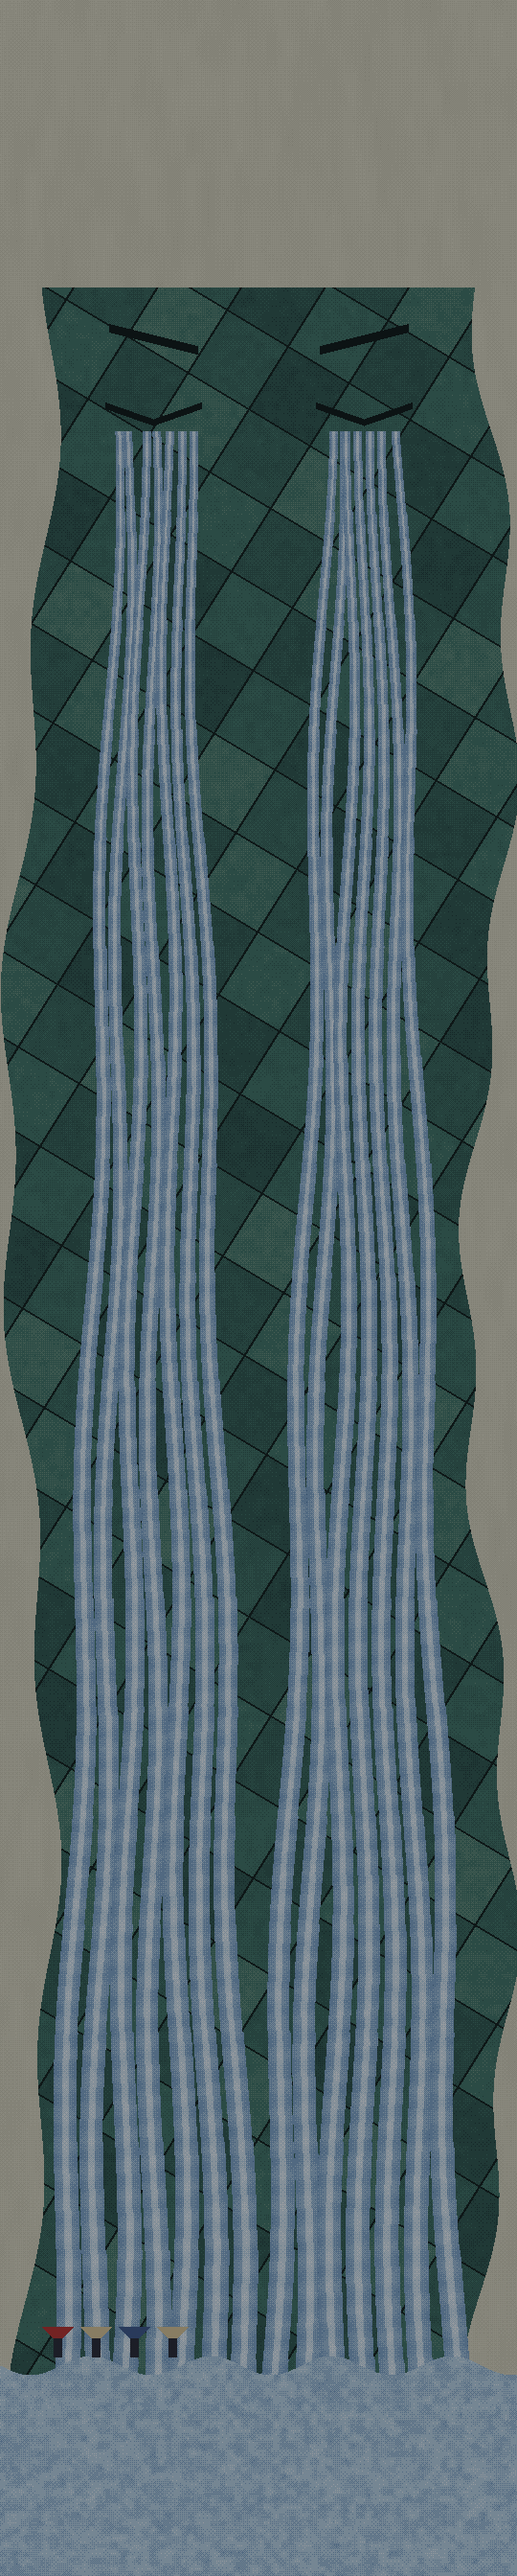
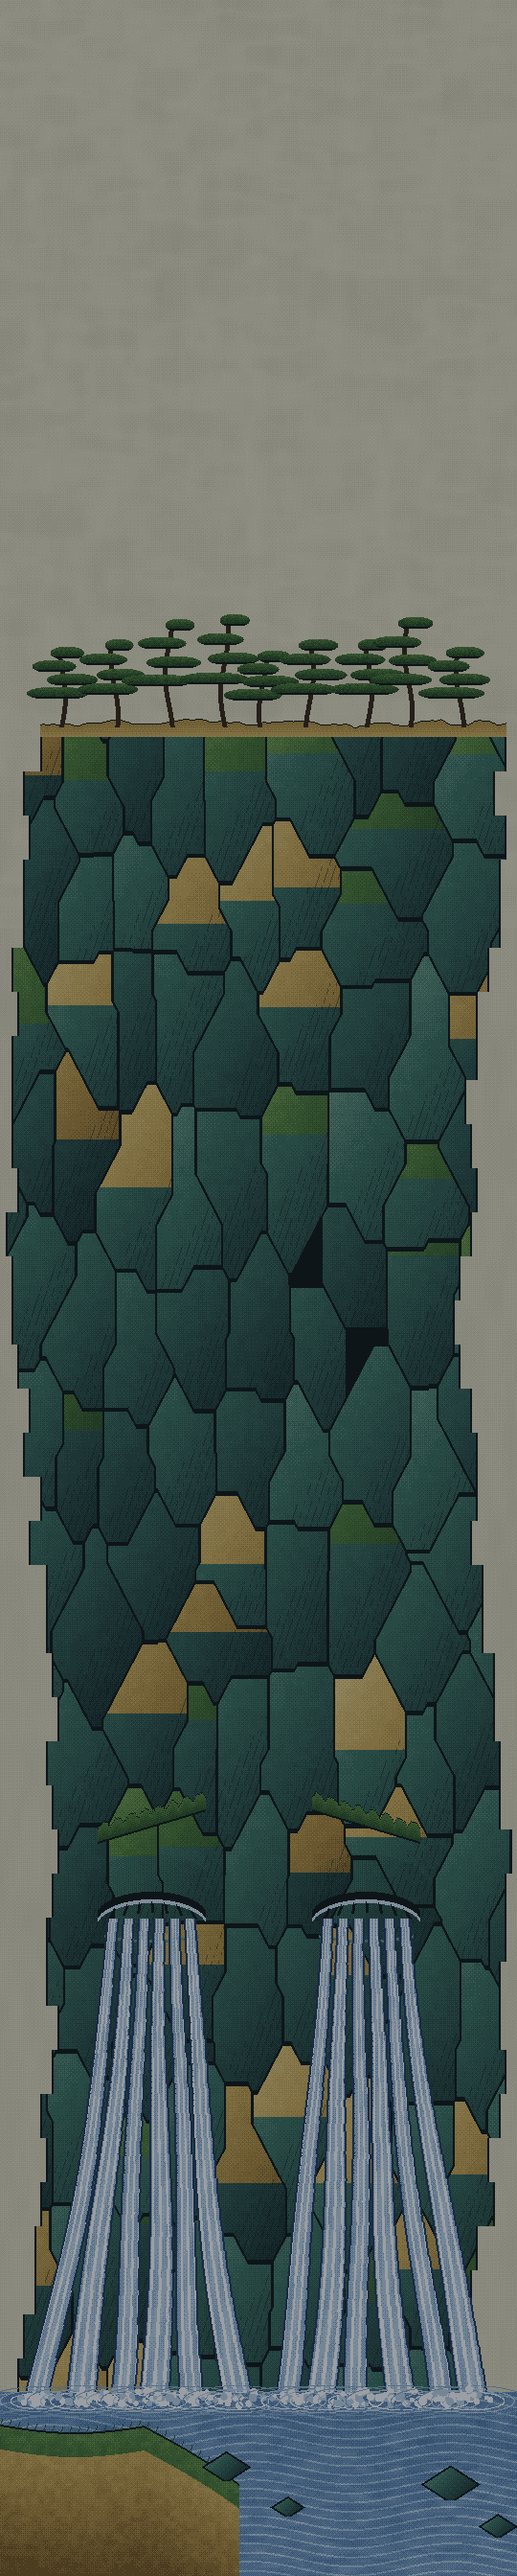
Press conference: the man wears glasses; the Kirifuri arena redrawn with moving water, mist and pilgrims

diff --git a/docs/random-encounters.md b/docs/random-encounters.md
@@ -198,14 +198,26 @@ Stałe: `OBACHAN` w `src/game/enemies/obachan.js` (2400 HP, progi 66% / 33%). Ba
 - **Faza 3 — tygrys!:** tygrys zeskakuje z bluzki (na bluzce zostaje dziura) i poluje sam: przyczaja się (linia
   celu), skacze, ląduje z rykiem (pierścień, „GAO!”), odpoczywa; babcia dalej rozdaje cukierki i się targuje.
 
-## 7. Płacząca mównica (MOWNICA)
+## 7. Konferencja prasowa (KAIKEN)
 
-Stałe: `MOWNICA` w `src/game/enemies/mownica.js` (2400 HP, progi 66% / 33%). Pierwsza wersja do przerobienia.
+Stałe: `KAIKEN` w `src/game/enemies/kaiken.js` (2400 HP, progi 66% / 33%). Grafika: `tools/art/encounters/kaiken.mjs`
+(postać), `kirifuri.mjs` (tło). Podgląd klatek z gry i pomiar pocisków: `node tools/preview/kaiken-shots.mjs`.
 
-- **Faza 1 — „HA? NANI?”:** wachlarze „odpowiedzi” w gracza; co drugi ruch przykłada rękę do ucha i przez 2,2 s
-  nic nie słyszy: strzały nie zadają obrażeń, a część wraca do gracza jako echo.
-- **Faza 2 — „UAAA!”:** szloch — łuki łez z obu oczu w rytmie łapania oddechu; walenie pięściami w stół („DON!”,
-  podwójny pierścień, wstrząs ekranu); wymachiwanie ręką (strumień pocisków omiatający ekran).
-- **Faza 3 — „ZMIENIĘ ŚWIAT!”:** rzuca bilety kolejowe (numerowane w górę, do #195), które spadają, kołysząc się;
-  co piąty ma czerwony stempel „pociąg nie jechał” i pęka pierścieniem („UNKYŪ!”). Po wygranej: „PAN TEGO NIE
-  ZROZUMIE”.
+Boss to wymyślony pan w garniturze i okularach za stołem konferencyjnym (bez nazwiska, podobizny i funkcji;
+nawiązanie tylko do zachowania). Jedna kukiełka w 22 pozach, pokazywana 1,35× większa niż narysowana; stół,
+mikrofony, szklanka, kałuża łez i zużyte chusteczki to osobne części.
+
+- **Faza 1 — „HA? NANI?”:** wachlarze „odpowiedzi” z ust; siorbnięcie nosem (po trzy łzy na boki); co czwarty ruch
+  przykłada rękę do ucha i przez 1,6 s nic nie słyszy: strzały zatrzymują się na łuku narysowanym przed stołem
+  i odskakują w bok, a część wraca jako echo.
+- **Faza 2 — „UAAA!”:** szloch (łuki łez z obu oczu); walenie pięściami w stół („DON!”, podwójny pierścień, wstrząs,
+  mikrofony i szklanka podskakują, kałuża chlapie); wymachiwanie ręką (strumień pocisków z dłoni).
+- **Faza 3 — „ZMIENIĘ ŚWIAT!”:** rzuca bilety kolejowe (numerowane, do #195), które spadają, obracając się; co piąty
+  ma czerwony stempel i pęka pierścieniem („UNKYŪ!”). Po wygranej osuwa się czołem na stół: „PAN TEGO NIE ZROZUMIE”.
+- **Co widać w trakcie:** kałuża łez rośnie z fazami i spływa po obrusie, między atakami wyciera nos (rośnie kupka
+  chusteczek), po bokach ekranu błyskają flesze.
+- **Tło:** wodospad Kirifuri Hokusaia; twarz w skale (krzaczaste brwi, zaciśnięte powieki) jest na ekranie od początku,
+  pod stołem. Animowane: woda w każdym strumieniu, błyski łez na powiekach, krople, mgła, bryzgi, zmarszczki na
+  stawie, czterech pielgrzymów z parasolami.
+- **Pomiar (30 s na fazę, bez strzelania):** średnio 21 / 36 / 24 pocisków na ekranie, szczyt 32 / 54 / 54
+  (automat: 17 / 34 / 22, szczyt 33 / 57 / 54).

diff --git a/docs/pomysly-dopracowanie.md b/docs/pomysly-dopracowanie.md
@@ -6,16 +6,19 @@ miast nie byli oglądani.
 
 ## Ustalona kolejność
 
-1. Spotkanie 7: zamiast mównicy duża postać człowieka przy stole.
+1. Spotkanie 7: zamiast mównicy duża postać człowieka przy stole. **Zrobione 15.11** (opis w `random-encounters.md`).
 2. Spotkanie 6 (babcia): tło, ruchy i grafika od nowa.
 3. Miasta: szczegóły, animacje i nowe ważne miejsca tam, gdzie jest pustka.
 
 ## Spotkania
 
 Liczba animowanych elementów tła: automat 10, kei car 0, kot na budowie 0, kot bez końca 5, pokój otaku 11,
-babcia 0, mównica 0.
+babcia 0, konferencja 193 (po przeróbce 15.11; wcześniej 0).
 
 ### 7. Płaczący człowiek przy stole (dziś: mównica) — najsłabsze
+
+Zrobione 15.11 (postać w okularach, 22 pozy, nowe tło). Zostało: obejrzeć walkę w ruchu na telefonie i ocenić
+jej czas z prawdziwym graczem. Poniżej pierwotna lista.
 
 Decyzja: bossem ma być duża postać człowieka przy stole konferencyjnym, nie ożywiona mównica.
 
